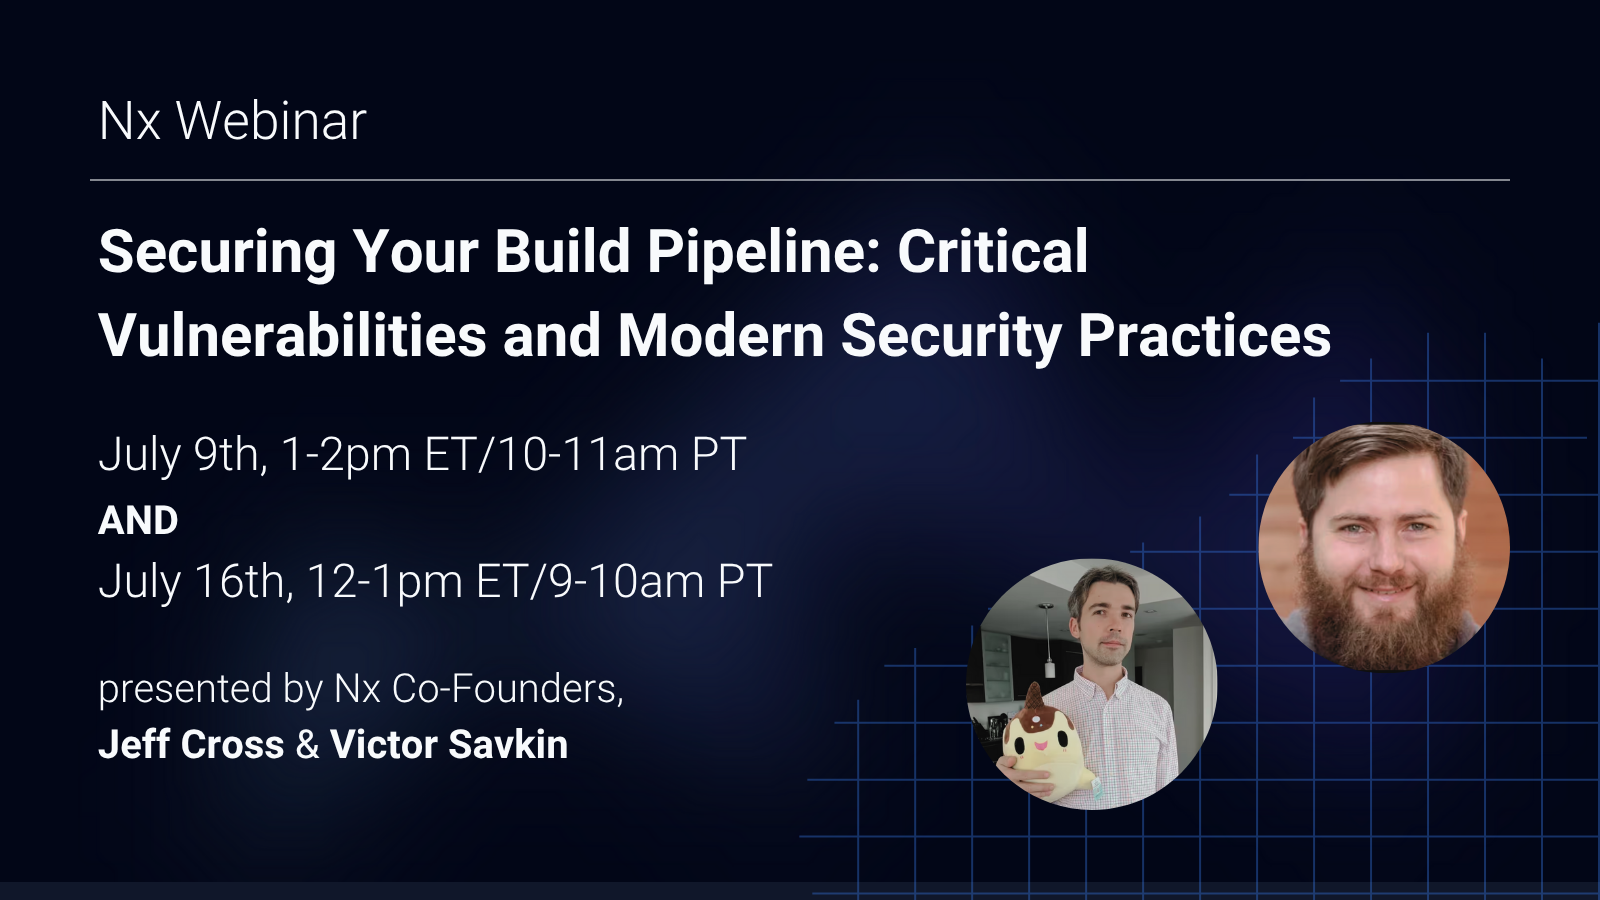
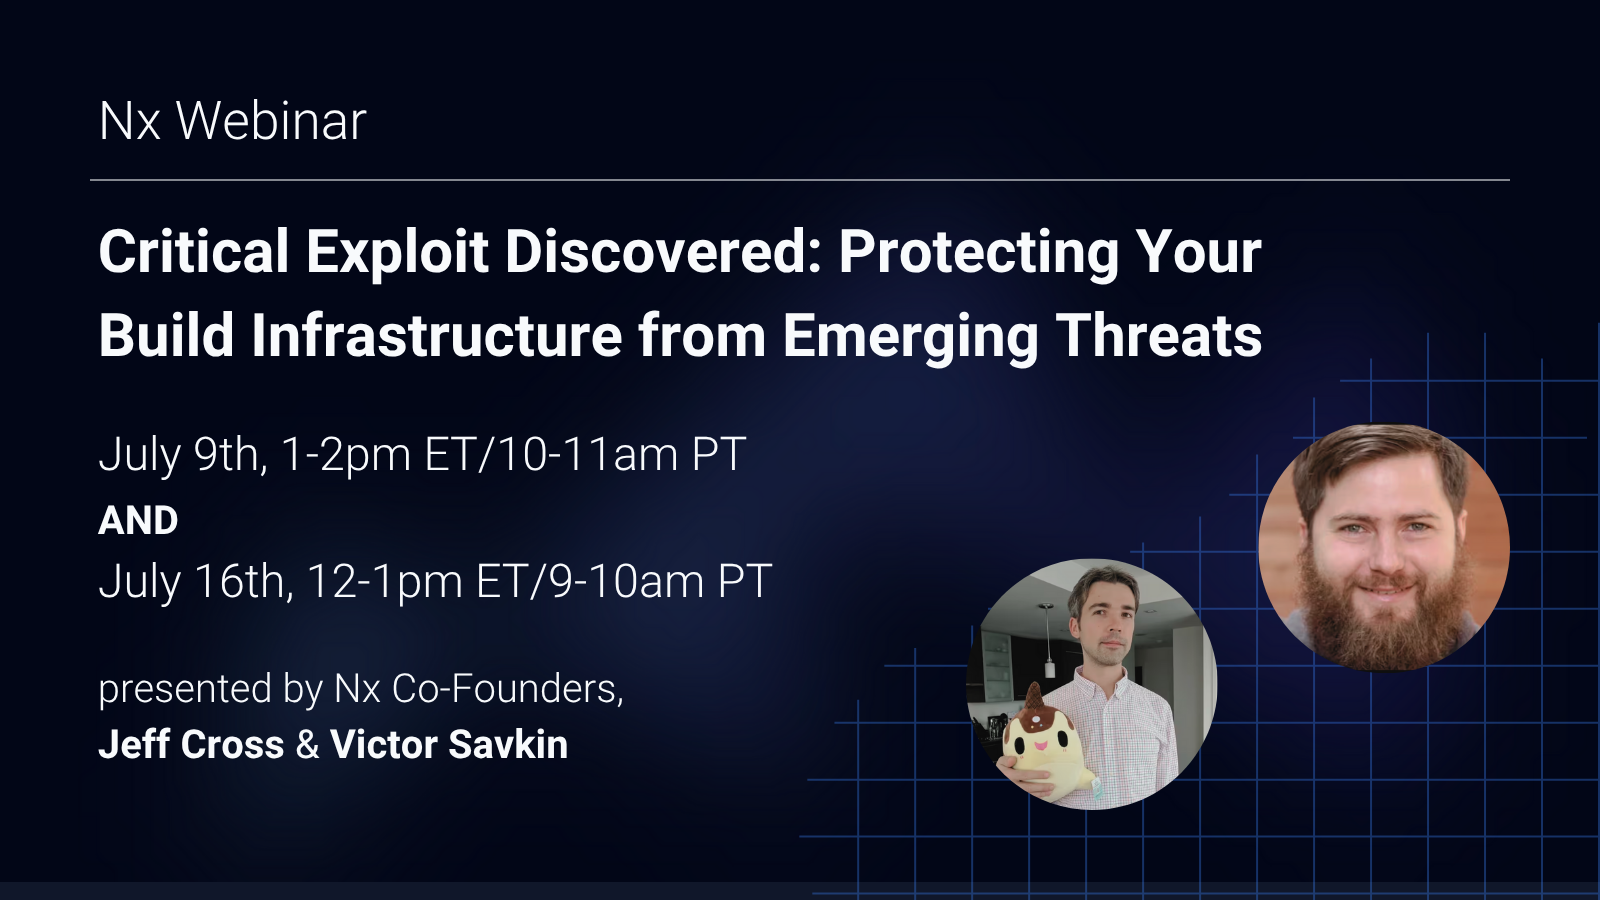
docs(nx-dev): add CTAs for July 9 webinar
<96075541+graphite-app[bot]@users.noreply.github.com>

Changed region(s): [[0.0625, 0.3422, 0.8438, 0.4044], [0.0625, 0.2489, 0.7812, 0.3111]]

diff --git a/nx-dev/ui-markdoc/src/lib/tags/call-to-action.component.tsx b/nx-dev/ui-markdoc/src/lib/tags/call-to-action.component.tsx
@@ -1,24 +1,42 @@
 import { ChevronRightIcon } from '@heroicons/react/24/outline';
 import { Framework, frameworkIcons } from '@nx/graph/legacy/icons';
+import classNames from 'classnames';
+
+const iconSizeClasses: Record<
+  string,
+  { icon: string; chevron: string; width: string }
+> = {
+  sm: { icon: 'h-10 w-10', chevron: 'h-6 w-6', width: 'max-w-md' },
+  md: { icon: 'h-16 w-16', chevron: 'h-10 w-10', width: 'max-w-lg' },
+  lg: { icon: 'h-24 w-24', chevron: 'h-16 w-16', width: 'max-w-xl' },
+};
 
 export function CallToAction({
   url,
   title,
   description,
   icon = 'nx',
+  size = 'sm',
 }: {
   url: string;
   title: string;
   description?: string;
   icon?: string;
+  size?: 'sm' | 'md' | 'lg';
 }): JSX.Element {
+  const iconClasses = iconSizeClasses[size];
   return (
-    <div className="not-prose group relative mx-auto my-12 flex w-full max-w-md items-center gap-3 overflow-hidden rounded-lg bg-slate-50 shadow-md transition hover:text-white dark:bg-slate-800/60">
+    <div
+      className={classNames(
+        iconClasses.width,
+        'not-prose group relative mx-auto my-12 flex w-full items-center gap-3 overflow-hidden rounded-lg bg-slate-50 shadow-md transition hover:text-white dark:bg-slate-800/60'
+      )}
+    >
       <div className="absolute inset-0 z-0 w-2 bg-blue-500 transition-all duration-150 group-hover:w-full dark:bg-sky-500"></div>
       <div className="w-2 bg-blue-500 dark:bg-sky-500"></div>
 
       <div className="z-10 flex flex-grow items-center py-3">
-        <div className="h-10 w-10">
+        <div className={iconClasses.icon}>
           {icon && frameworkIcons[icon as Framework]?.image}
         </div>
 
@@ -37,7 +55,12 @@ export function CallToAction({
           </p>
         </div>
       </div>
-      <ChevronRightIcon className="mr-4 h-6 w-6 transition-all group-hover:translate-x-3" />
+      <ChevronRightIcon
+        className={classNames(
+          iconClasses.chevron,
+          'mr-4 transition-all group-hover:translate-x-3'
+        )}
+      />
     </div>
   );
 }

diff --git a/nx-dev/ui-enterprise/src/lib/webinar-section.tsx b/nx-dev/ui-enterprise/src/lib/webinar-section.tsx
@@ -14,7 +14,7 @@ export const WebinarSection: React.FC = () => {
           Live event
         </span>
         <span className="inline-flex items-center space-x-2 text-sm/6 font-medium">
-          <span>Webinar + live Q&A on July 9th</span>
+          <span>Webinar + live Q&A on July 9th and 16th</span>
           <ChevronRightIcon
             aria-hidden="true"
             className="size-5 transform transition-all group-hover/event-link:translate-x-1"

diff --git a/nx-dev/ui-common/src/lib/webinar-notifier.tsx b/nx-dev/ui-common/src/lib/webinar-notifier.tsx
@@ -11,7 +11,7 @@ import {
 export function WebinarNotifier(): ReactElement | null {
   const [isMounted, setIsMounted] = useState(false);
   const [isVisible, setIsVisible] = useState<boolean>(true);
-  const localStorageKey = 'webinar-may-28-2025--notifier-closed';
+  const localStorageKey = 'webinar-july-9-2025--notifier-closed';
 
   useEffect(() => {
     setIsMounted(true);

diff --git a/nx-dev/ui-markdoc/src/lib/tags/call-to-action.schema.ts b/nx-dev/ui-markdoc/src/lib/tags/call-to-action.schema.ts
@@ -25,5 +25,12 @@ export const callToAction: Schema = {
       type: 'String',
       required: false,
     },
+    size: {
+      // 'Size of the call to action.  Defaults to "sm".',
+      type: 'String',
+      required: false,
+      default: 'sm',
+      matches: ['sm', 'md', 'lg'],
+    },
   },
 };

diff --git a/docs/blog/2025-06-25-cache-poisoning.md b/docs/blog/2025-06-25-cache-poisoning.md
@@ -5,7 +5,7 @@ authors: ['Victor Savkin']
 tags: ['caching', 'security']
 cover_image: /blog/images/2025-06-25/header.avif
 description: 'Build systems with remote caching can inadvertently grant every developer write access to production. Learn about the CREEP vulnerability (CVE-2025-36852) and how to protect your organization.'
-pinned: false
+pinned: true
 ---
 
 Build systems with remote caching make CI/CD pipelines fast. Very fast. They are essential for scaling modern software development.
@@ -25,6 +25,8 @@ This isn't new. Compromised low-privilege access has enabled devastating breache
 In each case, attackers turned trusted build processes into deployment pipelines for malicious code.
 
 If you use a build system with remote caching, assume you're affected. This isn't hyperbole. **Most organizations are unknowingly giving every PR author the power to poison production without leaving a trace.**
+
+{% call-to-action size="lg" title="Join our webinar + live Q&A on July 9th and 16th" url="https://bit.ly/4kkSHiy" icon="nxcloud" description="Join Nx co-founders, Jeff and Victor, for an essential security briefing on protecting your build infrastructure from emerging threats." /%}
 
 {% toc /%}
 
@@ -239,6 +241,8 @@ Any implementation that writes directly to S3, GCS, Azure, **including the packa
 Remote caching is critical for build performance, but we need to treat it with the same rigor we apply to production access.
 
 If you have questions about assessing your exposure or implementing secure caching, [reach out to our team](/contact/engineering).
+
+{% call-to-action size="lg" title="Join our webinar + live Q&A on July 9th and 16th" url="https://bit.ly/4npF0BA" icon="nxcloud" description="Join Nx co-founders, Jeff and Victor, for an essential security briefing on protecting your build infrastructure from emerging threats." /%}
 
 ---
 

diff --git a/docs/blog/2025-06-12-cve-2025-36852-critical-cache-poisoning-vulnerability-creep.md b/docs/blog/2025-06-12-cve-2025-36852-critical-cache-poisoning-vulnerability-creep.md
@@ -4,7 +4,6 @@ slug: cve-2025-36852-critical-cache-poisoning-vulnerability-creep
 authors: ['Victor Savkin']
 tags: ['caching', 'security']
 cover_image: /blog/images/2025-06-12/header.avif
-pinned: true
 description: 'A critical security vulnerability called CREEP (Cache Race-condition Exploit Enables Poisoning) has been published as CVE-2025-36852. This vulnerability affects remote cache plugins across numerous build systems, including Nx.'
 ---
 
@@ -21,6 +20,8 @@ The CREEP vulnerability allows any contributor with pull request privileges to i
 {% callout type="warning" title="DIY implementations are vulnerable" %}
 DIY remote caches are likely vulnerable. Scanners won't catch all affected implementations, so understanding the vulnerability is crucial.
 {% /callout %}
+
+{% call-to-action size="lg" title="Join our webinar + live Q&A on July 9th and 16th" url="https://bit.ly/4kkSHiy" icon="nxcloud" description="Join Nx co-founders, Jeff and Victor, for an essential security briefing on protecting your build infrastructure from emerging threats." /%}
 
 ## **Understanding the Vulnerability**
 
@@ -100,3 +101,5 @@ CVE-2025-36852 represents a serious threat to organizations using vulnerable cac
 - If your organization uses custom tasks runners to implement remote caching: immediate review required
 - If using Nx without remote caching: no action is required
 - If using Nx with Nx Cloud: [Review your settings](/ci/concepts/cache-security#use-scoped-tokens-in-ci). If you are using default settings, no actions should be required.
+
+{% call-to-action size="lg" title="Join our webinar + live Q&A on July 9th and 16th" url="https://bit.ly/4npF0BA" icon="nxcloud" description="Join Nx co-founders, Jeff and Victor, for an essential security briefing on protecting your build infrastructure from emerging threats." /%}

diff --git a/docs/blog/2025-07-09-securing-your-build-pipeline-critical-vulnerabilities-and-modern-security-practices.md b/docs/blog/2025-07-09-securing-your-build-pipeline-critical-vulnerabilities-and-modern-security-practices.md
@@ -1,9 +1,7 @@
 ---
-title: "Securing Your Build Pipeline: Critical Vulnerabilities and Modern Security Practices"
-description: "Join Nx CEO, Jeff Cross, and CTO, Victor Savkin, for an essential security briefing on protecting your build infrastructure from emerging threats. With the recent publication of CVE-2025-36852 – CREEP (Cache Race-condition Exploit Enables Poisoning, severity 9.4), it's more critical than ever to understand the security implications of your build and CI/CD choices.
-
-This webinar goes beyond just one vulnerability to address the broader security challenges facing modern development teams. Whether you're using Nx or other build systems, you'll learn actionable strategies to secure your entire build pipeline."
-date: 2025-06-25
+title: 'Critical Exploit Discovered: Protecting Your Build Infrastructure from Emerging Threats'
+description: "Join Nx CEO, Jeff Cross, and CTO, Victor Savkin, for an essential security briefing on protecting your build infrastructure from emerging threats. With the recent publication of CVE-2025-36852 – CREEP (Cache Race-condition Exploit Enables Poisoning, severity 9.4), it's more critical than ever to understand the security implications of your build and CI/CD choices."
+date: 2025-07-09
 slug: 'securing-your-build-pipeline-critical-vulnerabilities-and-modern-security-practices'
 authors: ['Jeff Cross', 'Victor Savkin']
 tags: [webinar]
@@ -14,6 +12,10 @@ registrationUrl: https://go.nx.dev/july2025-webinar
 ---
 
 **Jul 09, 2025 - 1pm ET/5pm UTC**
+
+and
+
+**Jul 16, 2025 - 12pm ET/4pm UTC**
 
 Presented by Jeff Cross and Victor Savkin
 
